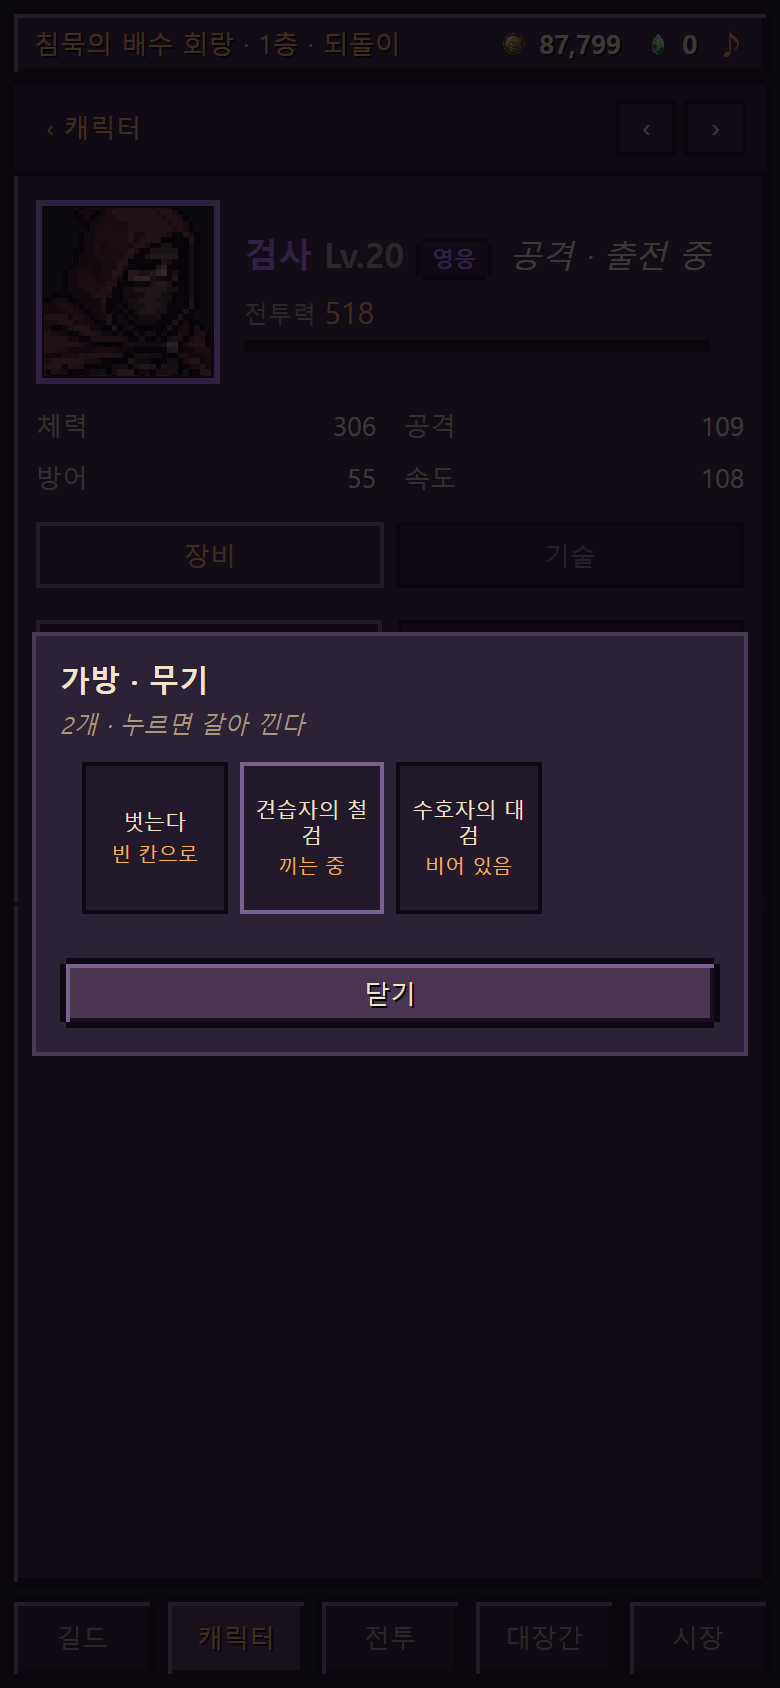
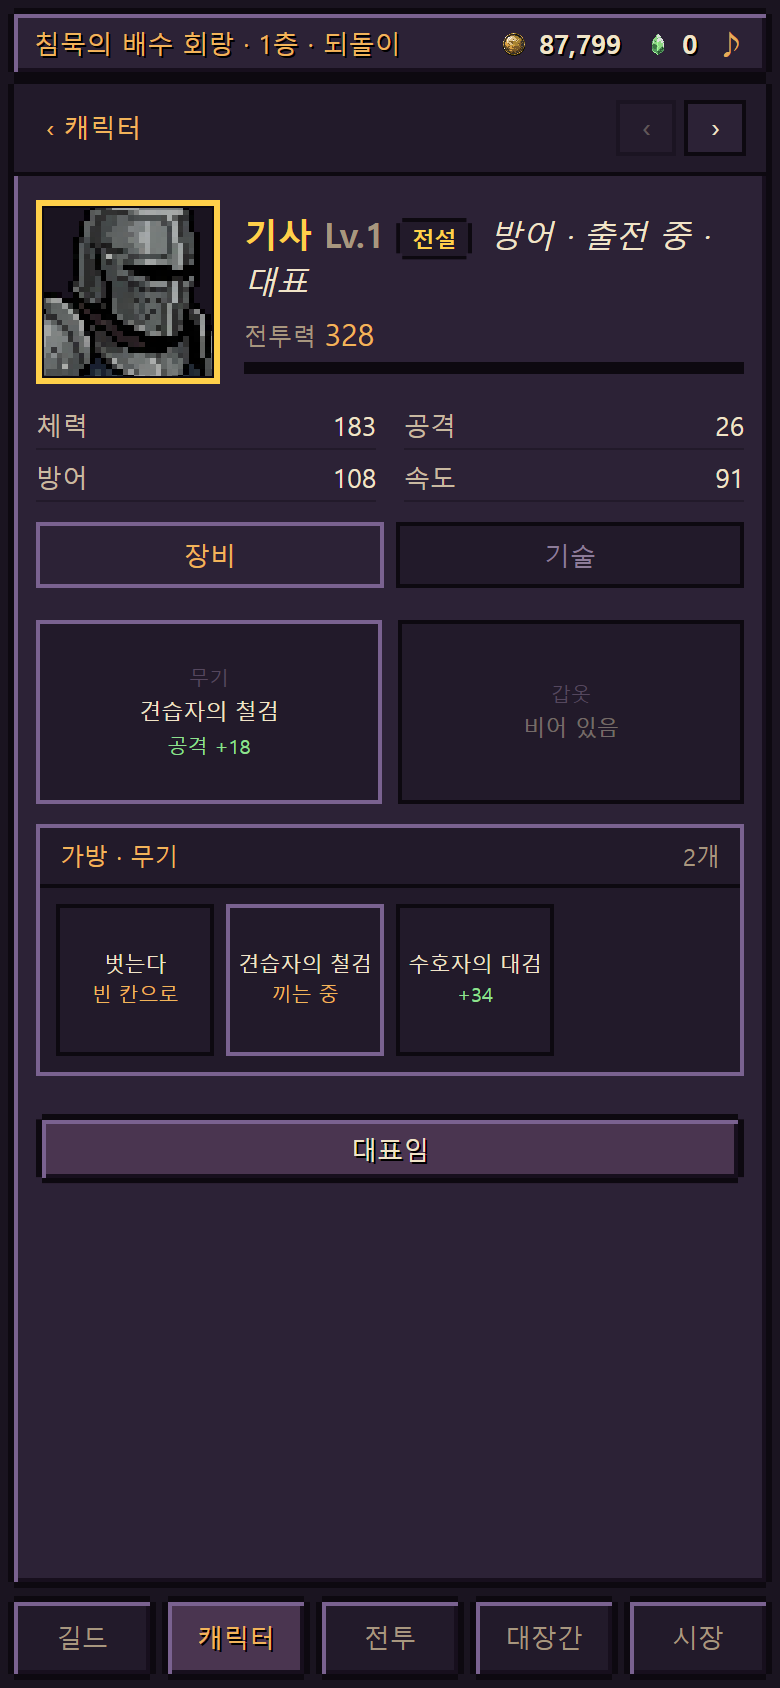
가방을 패널로 되돌리고, 대장간을 처음부터 다시 만든다
**① 가방 — 모달에서 아래 패널로.** 사장님은 "슬롯 터치 시 **아래 가방 패널**이 열려
바로 비교"라고 했는데 나는 모달로 만들었다. 없애라고 한 바로 그 팝업을 다시 만든 꼴이다.
패널이면 **위의 슬롯과 아래의 후보가 한 화면에** 있어서 견주며 고를 수 있고,
지금 낀 것과의 차이를 **숫자로**(+34 처럼) 같이 적는다 — 이름만 보고는 모른다.

**② 대장간 — 처음부터 다시** (10-09 "디테일하게 처음부터 다시 만들". 그동안 레시피만 늘렸다).
  · **층대(T1·T2·T3)로 묶는다** — 지금 내가 어느 단계인지가 목록에서 보인다
  · **재료를 칸으로** — 모자란 것은 붉고, **몇 개 모자란지**가 숫자로 남는다
  · **지금 낀 것과 견준다** — "기사에게 끼우면 +130". 이름과 수치만으로는 가치를 모른다
  · 잠긴 것은 흐리게, 만들 수 있는 것은 금색 띠

자 둘(카드·글자)이 **모달을 찾고 있어서** 실패했다 — 제품이 아니라 자가 뒤처진 것이다.
패널을 보도록 고쳤고, "모달이 아님"을 아예 판정에 넣었다(#덮개 가 없어야 통과).

자 10/10 + 문법 통과.

diff --git a/public/ash/index.html b/public/ash/index.html
@@ -188,6 +188,12 @@
   .조건줄 b{color:#a8977f;font-weight:400}
   .조건줄.참{color:var(--초록);border-left-color:var(--초록)}
   .조건줄.참 b{color:var(--초록)}
+  /* 가방 — **아래로 펼쳐지는 패널**. 위의 슬롯과 한 화면에 있어야 견주며 고른다 (10-10 사장님) */
+  .가방패널{margin:0 11px 10px;background:var(--창속);border:2px solid var(--빛테)}
+  .가방머리{display:flex;justify-content:space-between;padding:6px 10px;font-size:12px;color:var(--금);
+            border-bottom:2px solid var(--테)}
+  .가방머리 span{color:var(--흐림)}
+  .가방패널 .가방격자{padding:8px}
   /* 가방 — 그리드 칸. 만든 것이 몇 개인지 한눈에 보여야 한다 */
   .가방격자{display:grid;grid-template-columns:repeat(4,1fr);gap:6px;padding:10px 11px}
   .칸짜리{min-height:76px;background:var(--창속);border:2px solid var(--테);cursor:pointer;
@@ -202,6 +208,14 @@
   #panel.open{flex:1;height:auto;overflow-y:auto}   /* 공방·캐릭터 탭은 이 창이 화면을 채운다 — 260px 고정이면 탭 단추가 가운데 뜬다(10-07) */
   .row{display:flex;align-items:center;gap:9px;padding:9px 11px;border-bottom:2px solid var(--창속)}
   .row.된다{background:#241c2e;box-shadow:inset 3px 0 0 var(--금)}   /* 지금 만들 수 있는 것 (10-10 사장님) */
+  .row.잠김{opacity:.5}
+  /* 대장간 — 층대로 묶고 재료를 칸으로 (10-09 "디테일하게 처음부터 다시") */
+  .단계줄{padding:7px 11px 4px;font-size:11px;color:#6e5d78;background:var(--창속);letter-spacing:.5px}
+  .재료줄{display:flex;flex-wrap:wrap;gap:4px;margin-top:5px}
+  .재료칸{font-size:11px;color:#8d7c99;border:1px solid #3a2c45;padding:2px 6px;background:var(--창속)}
+  .재료칸 b{color:#ff8e7a;font-weight:400}
+  .재료칸.참 b{color:var(--초록)}
+  .재료칸 i{color:#ff8e7a;font-style:normal;margin-left:4px;font-size:10px}
   .row .nm{flex:1;min-width:0}
   .row .nm b{display:block;font-size:14px;color:var(--글);font-weight:400}
   .row .nm i{font-style:normal;font-size:12px;color:var(--흐림)}
@@ -376,7 +390,7 @@ const 필요경험 = (c) => 80 + (c.레벨 - 1)*12;
  * `진행`은 이제 처음에 꺼져 있다. 시작하자마자 1층을 깨 버리면 **고를 틈이 없다**(사장님 지적).
  */
 const S = { 단계:1, 층:1, 금화:0, 대원:[], 파티:[], 탭:"hall", 진행:false, 쉼:0, 대표:null, 최고층:0, 사냥층:null,
-            무리:0, 무리수:1, 깸:{}, 보스깸:[], 자동오름:true, 장날:null, 산것:{}, 출석날:null, 버프:null, 보는대원:null, 대원탭:"장비",
+            무리:0, 무리수:1, 깸:{}, 보스깸:[], 자동오름:true, 장날:null, 산것:{}, 출석날:null, 버프:null, 보는대원:null, 대원탭:"장비", 가방슬롯:null,
             가방:{ 파편:0, 잔혼:0, 수호핵:0, 가죽:0, 강철:0, 이빨:0, 거인뼈:0, 별가루:0, 문장:{ 방어:0, 공격:0, 지원:0, 제어:0 } } };
 for (const k of ["기사","검사","회복술사"]) S.대원.push(대원만들기(k));
 S.파티 = S.대원.map((c) => c.id);
@@ -1493,7 +1507,8 @@ function 대원창(el){
       `<span class="${S.대원탭 === t ? "on" : ""}" data-대원탭="${t}">${t}</span>`).join("")}</div></div>
     ${S.대원탭 === "장비"
       ? `<div class="슬롯줄">${["무기", "갑옷"].map(슬롯칸).join("")}</div>
-         <div class="row"><div class="nm"><i>슬롯을 누르면 가방이 열린다. 벗기는 것도 거기서.</i></div></div>`
+         ${S.가방슬롯 ? 가방패널(S.가방슬롯, c)
+           : `<div class="row"><div class="nm"><i>슬롯을 누르면 아래에 가방이 펼쳐진다.</i></div></div>`}`
       : `<div style="padding:4px 11px 0"><div class="칸이름">기술 <span class="귀띔">눌러 보기</span></div>
          <div class="기술">${기술.map((k) => `<span class="tag r" data-풀이="기술:${k}">${k}</span>`).join("")}</div>
          ${d.특성?.length ? `<div class="칸이름">특성 <span class="귀띔">눌러 보기</span></div>
@@ -1509,7 +1524,11 @@ function 대원창(el){
   el.querySelector("#뒷사람").onclick = () => { if (자리 < 줄.length - 1) { S.보는대원 = 줄[자리 + 1].id; 칸(); } };
   el.querySelectorAll("[data-대원탭]").forEach((b) => b.onclick = () => { S.대원탭 = b.dataset.대원탭; 칸(); });
   el.querySelector("#대표로").onclick = () => { S.대표 = c.id; 길드그리기(); 저장(); 다시(); };
-  el.querySelectorAll("[data-슬롯]").forEach((b) => b.onclick = () => 가방창(b.dataset.슬롯, c.id));
+  el.querySelectorAll("[data-슬롯]").forEach((b) => b.onclick = () => {
+    S.가방슬롯 = S.가방슬롯 === b.dataset.슬롯 ? null : b.dataset.슬롯; 칸();
+  });
+  el.querySelectorAll("[data-낄]").forEach((b) => b.onclick = () => { 장착(Number(b.dataset.낄), c.id); 저장(); 칸(); });
+  el.querySelectorAll("[data-벗김]").forEach((b) => b.onclick = () => { 벗기(Number(b.dataset.벗김)); 저장(); 칸(); });
 
   // 기술·특성 풀이 — 카드 창에 있던 것을 그대로 가져왔다
   const 풀이칸 = el.querySelector("#풀이");
@@ -1526,43 +1545,35 @@ function 대원창(el){
 }
 
 /**
- * **가방** (10-10). 만든 장비를 한눈에 볼 데가 없었다 — 카드 창 안에서만 보였다.
- * 슬롯에서 열면 **그 칸에 맞는 것만** 추려 보여 주고, 누르면 바로 갈아 낀다.
+ * **가방 — 아래로 펼쳐지는 패널** (10-10 사장님 "슬롯 터치 시 **아래 가방 패널**이 열려 바로 비교").
+ *
+ * 처음엔 모달로 만들었는데, 사장님이 없애라고 한 바로 그 팝업을 다시 만든 꼴이었다.
+ * 패널이면 **위의 슬롯과 아래의 후보가 한 화면에** 있어서 끼운 것과 견주며 고를 수 있다.
+ * 지금 낀 것보다 나은지는 **숫자로** 같이 적는다 — 이름만 보고는 모른다.
  */
-function 가방창(슬롯, 누구){
+function 가방패널(슬롯, c){
   const 들 = S.가방.장비.filter((x) => 레시피[x.키].슬롯 === 슬롯);
-  const 덮 = document.createElement("div"); 덮.id = "덮개";
-  const 그리자 = () => {
-    const 지금 = S.가방.장비.filter((x) => 레시피[x.키].슬롯 === 슬롯);
-    const 낀것 = 지금.find((x) => x.누구 === 누구);
-    덮.innerHTML = `<div class="카드" onclick="event.stopPropagation()">
-      <div class="nm"><b style="display:block;font-size:15px">가방 · ${슬롯}</b>
-        <i style="color:var(--흐림);font-size:12px">${지금.length}개 · 누르면 갈아 낀다</i></div>
-      <div class="가방격자">${낀것 ? `<div class="칸짜리 벗기" data-벗김="${낀것.id}">
-            <div class="이름">벗는다</div><div class="수">빈 칸으로</div></div>` : ""}
-        ${지금.length ? 지금.map((x) => {
-        const r = 레시피[x.키], 낌 = x.누구 === 누구;
-        const 남 = x.누구 != null && !낌 ? S.대원.find((c) => c.id === x.누구) : null;
+  const 낀것 = 들.find((x) => x.누구 === c.id);
+  const 값 = (키) => Object.values(레시피[키].효과 ?? {}).reduce((a, b) => a + Number(b), 0);
+  const 지금값 = 낀것 ? 값(낀것.키) : 0;
+  return `<div class="가방패널">
+    <div class="가방머리">가방 · ${슬롯} <span>${들.length}개</span></div>
+    <div class="가방격자">
+      ${낀것 ? `<div class="칸짜리 벗기" data-벗김="${낀것.id}">
+          <div class="이름">벗는다</div><div class="수">빈 칸으로</div></div>` : ""}
+      ${들.length ? 들.map((x) => {
+        const r = 레시피[x.키], 낌 = x.누구 === c.id;
+        const 남 = x.누구 != null && !낌 ? S.대원.find((y) => y.id === x.누구) : null;
+        const 차 = 값(x.키) - 지금값;
         return `<div class="칸짜리${낌 ? " 낌" : ""}" data-낄="${x.id}">
           <div class="이름">${r.이름}</div>
-          <div class="수">${낌 ? "끼는 중" : 남 ? `${카드(남).직업}` : "비어 있음"}</div></div>`;
-      }).join("") : `<div class="칸짜리 빔"><div class="이름">없다</div></div>`}</div>
-      ${지금.length ? "" : `<div class="풀이 on">대장간에서 ${슬롯}을 만들면 여기에 쌓인다.</div>`}
-      <div class="줄"><button class="btn" id="닫기">닫기</button></div></div>`;
-    덮.querySelectorAll("[data-낄]").forEach((b) => b.onclick = () => {
-      장착(Number(b.dataset.낄), 누구); 저장(); 덮.remove(); 칸();
-    });
-    // 10-10 사장님 "X 버튼 완전 삭제" — 벗기는 것도 가방 안에서 한다
-    덮.querySelectorAll("[data-벗김]").forEach((b) => b.onclick = () => {
-      벗기(Number(b.dataset.벗김)); 저장(); 덮.remove(); 칸();
-    });
-    덮.querySelector("#닫기").onclick = () => 덮.remove();
-  };
-  덮.onclick = () => 덮.remove();
-  그리자();
-  document.body.appendChild(덮);
+          <div class="수">${낌 ? "끼는 중" : 남 ? 카드(남).직업
+            : 차 > 0 ? `<span style="color:#8fe08f">+${수(차)}</span>`
+            : 차 < 0 ? `<span style="color:#ff8e7a">${수(차)}</span>` : "같다"}</div></div>`;
+      }).join("") : `<div class="칸짜리 빔"><div class="이름">없다</div>
+          <div class="수">대장간에서</div></div>`}
+    </div></div>`;
 }
-
 function 칸(){
   const el = $("#panel");
   if (S.탭 === "run" || S.탭 === "hall") { el.className = ""; el.innerHTML = ""; return; }
@@ -1587,25 +1598,64 @@ function 칸(){
     }).join("");
     el.querySelectorAll("[data-카드]").forEach((b) => b.onclick = () => { S.보는대원 = Number(b.dataset.카드); 칸(); });
   } else if (S.탭 === "forge") {
+    /**
+     * **대장간** (10-09 사장님 "대장간이랑 시장 시스템 디테일하게 처음부터 다시 만들").
+     *
+     * 전에는 레시피를 한 줄씩 늘어놓기만 했다. 세 가지를 더했다:
+     *  ① **층대(T1·T2·T3)로 묶는다** — 지금 내가 어느 단계에 있는지가 목록에서 보인다
+     *  ② **재료를 칸으로** 보여 준다. 모자란 것은 붉고, 모자란 만큼이 숫자로 남는다
+     *  ③ **지금 낀 것과 견준다** — 만들면 누가 얼마나 좋아지는지. 이름만 보고는 모른다
+     * 재료 이름은 `재료이름` 한 곳에서만 가져온다(두 군데 적었다가 undefined 가 다섯 개 찍혔다).
+     */
     const g = S.가방;
     if (S.최고층 < 3) { el.innerHTML = `<div class="row"><div class="nm"><b>대장간</b><i>3층을 넘으면 대장간이 열린다. (지금 ${S.최고층}층)</i></div></div>`; return; }
-    /* 10-10: 재료 이름을 **한 곳**에서 가져온다. 전에는 대장간만 따로 `{파편,잔혼,수호핵}` 표를
-       들고 있어서, T2·T3 재료를 더하자 화면에 **undefined** 가 다섯 개 찍혔다.
-       이름을 두 군데에 적으면 한 곳은 반드시 뒤처진다. */
-    const 재료글 = (r) => [...Object.entries(r.재료).map(([k, n]) =>
-        `${재료이름[k] ?? k} <span style="color:${(g[k] ?? 0) >= n ? "#8fe08f" : "#ff8e7a"}">${g[k] ?? 0}/${n}</span>`),
-      `금화 <span style="color:${S.금화 >= r.금화 ? "#8fe08f" : "#ff8e7a"}">${수(r.금화)}</span>`].join(" · ");
+
+    const 단계 = (r) => r.열림 >= 20 ? "T3 · 20층 위" : r.열림 >= 10 ? "T2 · 10층 위" : "T1 · 처음";
+    const 값 = (키) => Object.values(레시피[키].효과 ?? {}).reduce((a, b) => a + Number(b), 0);
+    /** 이걸 만들면 **누가** 가장 좋아지나 — 그 슬롯이 비었거나 더 나쁜 것을 낀 대원 */
+    const 쓸사람 = (키) => {
+      const r = 레시피[키]; if (r.슬롯 === "약") return null;
+      let 좋 = null, 폭 = 0;
+      for (const c of S.대원) {
+        const 낀 = 장비들(c).find((x) => 레시피[x.키].슬롯 === r.슬롯);
+        const 차 = 값(키) - (낀 ? 값(낀.키) : 0);
+        if (차 > 폭) { 폭 = 차; 좋 = c; }
+      }
+      return 좋 ? { 누구: 카드(좋).직업, 폭 } : null;
+    };
+
+    const 칸들 = (r) => Object.entries(r.재료).map(([k, n]) => {
+      const 가진 = g[k] ?? 0, 됨 = 가진 >= n;
+      return `<span class="재료칸${됨 ? " 참" : ""}">${재료이름[k] ?? k}
+        <b>${가진}/${n}</b>${됨 ? "" : `<i>${n - 가진} 모자람</i>`}</span>`;
+    }).concat(`<span class="재료칸${S.금화 >= r.금화 ? " 참" : ""}">금화 <b>${수(r.금화)}</b>${
+      S.금화 >= r.금화 ? "" : `<i>${수(r.금화 - S.금화)} 모자람</i>`}</span>`).join("");
+
     const 가방줄 = Object.keys(재료이름).filter((k) => (g[k] ?? 0) > 0)
       .map((k) => `${재료이름[k]} ${g[k]}`).join(" · ") || "재료가 없다";
-    el.innerHTML = `<div class="row"><div class="nm"><b>가방</b><i>${가방줄} · 금화 ${수(S.금화)}</i></div></div>`
-      + Object.entries(레시피).map(([k, r]) => { const 없 = 모자람(k), 잠김 = S.최고층 < r.열림;
-        // 10-10 사장님 "제작 가능한 장비 강조" — 지금 만들 수 있는 것이 한눈에 보여야 한다
-        return `<div class="row${!잠김 && !없.length ? " 된다" : ""}"><div class="nm"><b>${r.이름} <span class="tag">${r.슬롯}</span>${
-            !잠김 && !없.length ? `<span class="tag r">만들 수 있다</span>` : ""}</b>
-          <i>${잠김 ? `${r.열림}층을 넘으면 열린다` : `${r.글}<br>${재료글(r)}`}</i></div>
-          <button class="btn" data-make="${k}" ${없.length ? "disabled" : ""}>만들기</button></div>`; }).join("")
-      + `<div class="row"><div class="nm"><i>만든 장비와 회복약은 <span style="color:#f2b45a">캐릭터</span> 탭에서 끼우고 챙긴다.</i></div></div>`;
-    el.querySelectorAll("[data-make]").forEach((b) => b.onclick = () => { 만들기(b.dataset.make); 저장(); 칸(); });
+
+    let 글 = `<div class="row"><div class="nm"><b>가방</b><i>${가방줄} · 금화 ${수(S.금화)}</i></div></div>`;
+    let 앞단계 = "";
+    for (const [k, r] of Object.entries(레시피)) {
+      const 없 = 모자람(k), 잠김 = S.최고층 < r.열림, 된다 = !잠김 && !없.length;
+      if (단계(r) !== 앞단계) { 앞단계 = 단계(r); 글 += `<div class="단계줄">${앞단계}</div>`; }
+      const 쓸 = 된다 ? 쓸사람(k) : null;
+      글 += `<div class="row${된다 ? " 된다" : ""}${잠김 ? " 잠김" : ""}">
+        <div class="nm"><b>${r.이름} <span class="tag">${r.슬롯}</span>${
+          된다 ? `<span class="tag r">만들 수 있다</span>` : ""}</b>
+          <i>${r.글}</i>
+          ${잠김 ? `<i style="color:#6e5d78">${r.열림}층을 넘으면 열린다</i>`
+                 : `<div class="재료줄">${칸들(r)}</div>`}
+          ${쓸 ? `<i style="color:var(--초록)">${쓸.누구}에게 끼우면 +${수(쓸.폭)}</i>` : ""}</div>
+        <button class="btn" data-make="${k}" ${잠김 || 없.length ? "disabled" : ""}>만들기</button></div>`;
+    }
+    글 += `<div class="row"><div class="nm"><i>만든 것은 <span style="color:#f2b45a">캐릭터</span> 탭에서 슬롯을 눌러 끼운다.</i></div></div>`;
+    el.innerHTML = 글;
+    el.querySelectorAll("[data-make]").forEach((b) => b.onclick = () => {
+      const 전 = 레시피[b.dataset.make].이름;
+      if (만들기(b.dataset.make)) 적기(`대장간에서 <b>${전}</b>을 만들었다.`, "good");
+      저장(); 칸();
+    });
   } else if (S.탭 === "shop") {
     매대확인();
     el.innerHTML = `<div class="row"><div class="nm"><b>오늘의 매대</b>
@@ -1707,7 +1757,7 @@ function 길드그리기(){
 }
 
 // 자가 창 안에서 턴을 직접 돌릴 수 있어야 한다 — 1.4초씩 기다리면 100층에 두 시간이다.
-Object.assign(window, { S, 맵그리기, 출발창, 화면, 한턴, 적만들기, 무리수, 판끝, 자격, 열린층, 필요판, 최대체력, 공격력, 방어력, 전멸, 기술표, 도감, 빛셈, 빛표, 대원만들기, 방어뒤, 결의배, 도감, 기술설명, 특성설명, 스킬들, 대원창, 가방창, 전투력, 벗기, 칸, 만들기, 모자람, 장착, 레시피, 구간, 구간들, 매대, 사기, 남은수, 산수, 매대확인, 전투준비, 저장, 불러오기, 지우기 });
+Object.assign(window, { S, 맵그리기, 출발창, 화면, 한턴, 적만들기, 무리수, 판끝, 자격, 열린층, 필요판, 최대체력, 공격력, 방어력, 전멸, 기술표, 도감, 빛셈, 빛표, 대원만들기, 방어뒤, 결의배, 도감, 기술설명, 특성설명, 스킬들, 대원창, 가방패널, 전투력, 벗기, 칸, 만들기, 모자람, 장착, 레시피, 구간, 구간들, 매대, 사기, 남은수, 산수, 매대확인, 전투준비, 저장, 불러오기, 지우기 });
 Object.defineProperty(window, "행동순서", { get: () => 행동순서 });
 Object.defineProperty(window, "적들", { get: () => 적들 });
 
